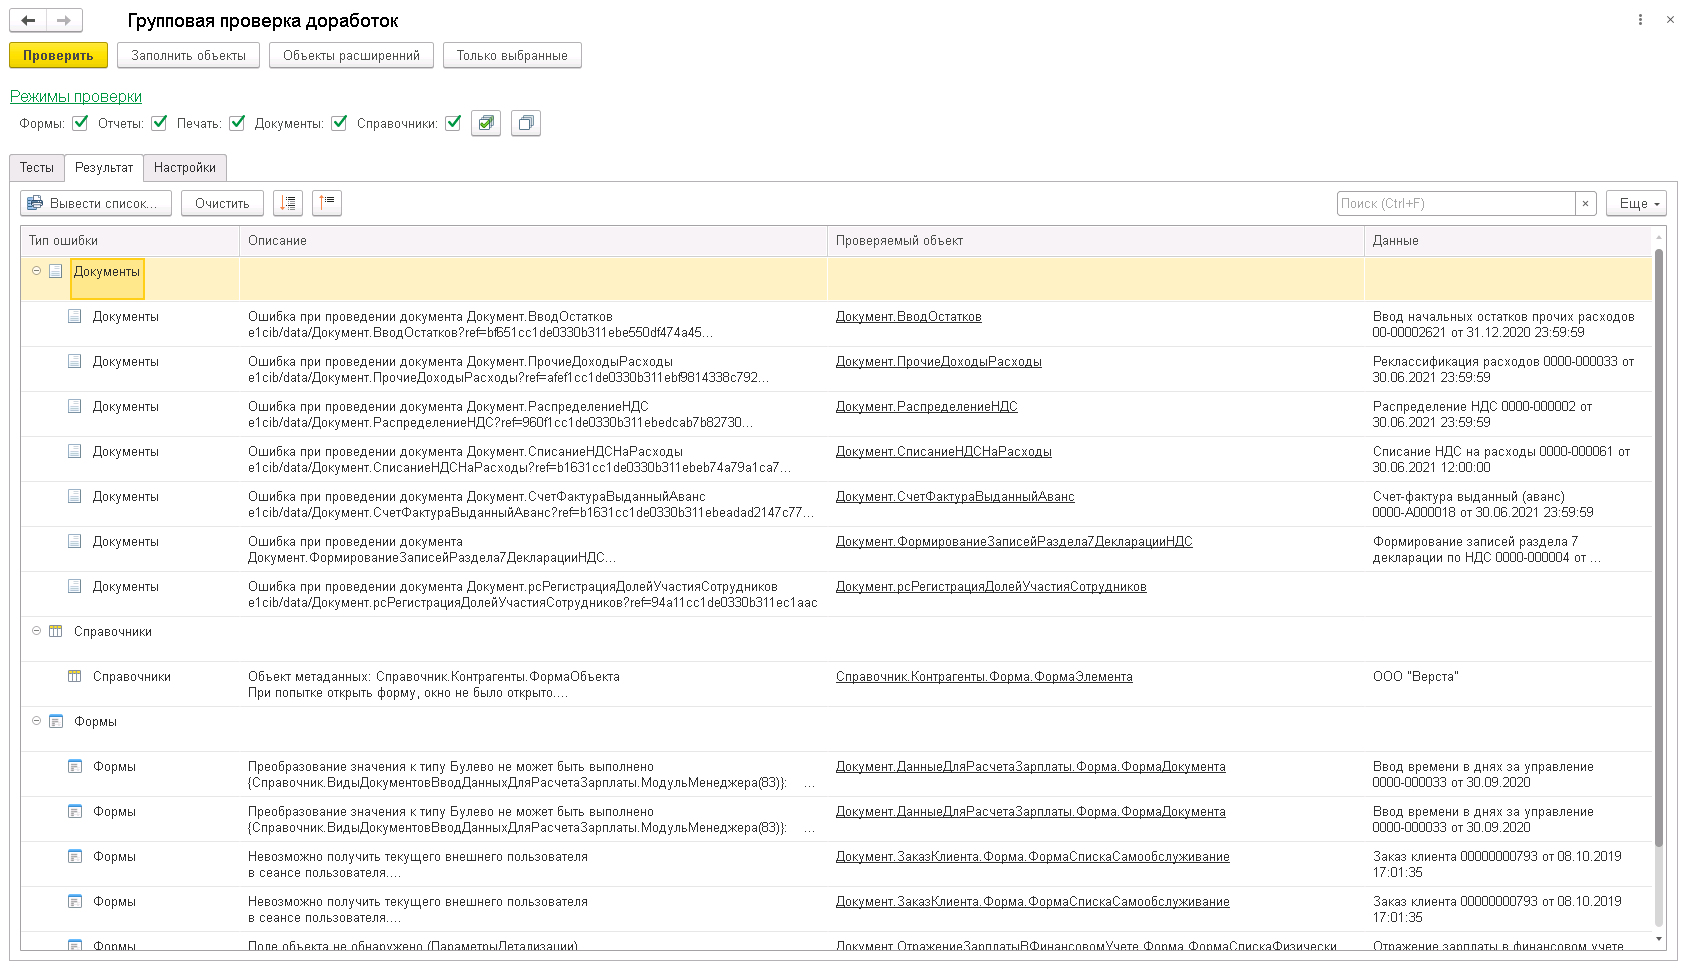
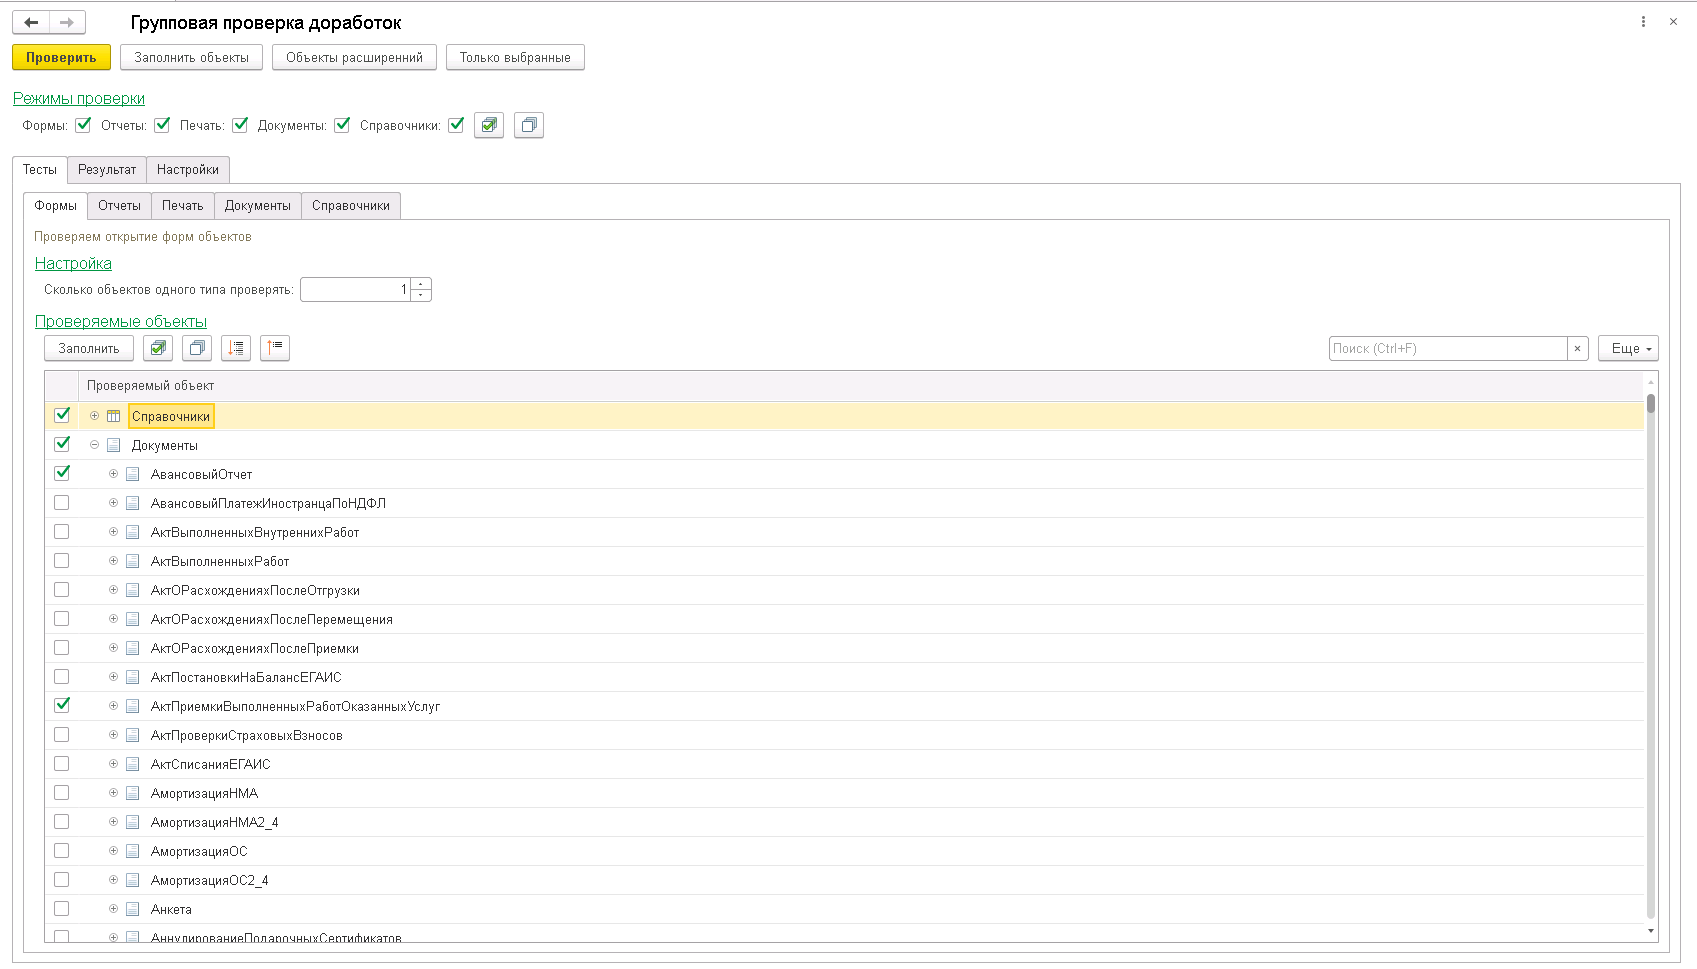
Описание групповой проверки

diff --git a/README.md b/README.md
@@ -163,6 +163,45 @@
 
 ## Групповая проверка доработок
 
+Обработка для массовой проверки доработок конфигурации: Открытие форм, Печать, Формирование отчетов, Проведение документов, Запись справочников, ПВХ, ПВР. Выдает список обнаруженных ошибок. Рекомендуется применять для тестирования обновленной конфигурации.
+
+ *За основу использовалась обработка с инфостарта <a href="https://infostart.ru/public/1056811/" target="_blank">Групповая проверка доработок</a>*.
+
+ <img src="https://raw.githubusercontent.com/leobrn/ones-smoke-allure/main/examples/group-check.png" alt="Превью PhoenixBSL" style="zoom:80%;" />
+
+5 режимов проверки:
+- Формы. Проверка открытия основных форм объектов
+- Отчеты. Формирование отчетов с настройками по умолчанию
+- Печать. Формирование печатных формы с настройками по умолчанию
+- Документы. Проверяет заполнение формы и перепроводит последние документы
+- Справочники. Проверяет заполнение формы и перезаписывает справочники, планы видов характеристик, планы видов расчета
+
+Выбранные проверки выполняются по порядку.
+
+Проверка доработок в расширениях в три шага:
+
+- В шапке обработки нажать `Заполнить объекты` (все настройки и заполненные объекты сохраняются)
+- Нажать `Объекты расширений`. Будут выбраны объекты, которые добавлены или изменены в расширениях. Для показа только выбранных объектов нажмите `Только выбранные`
+- Запустить проверки нажав на `Проверить`
+
+ <img src="https://raw.githubusercontent.com/leobrn/ones-smoke-allure/main/examples/group-check-selected.png" alt="Превью PhoenixBSL" style="zoom:80%;" />
+
+На странице `Результат` в виде дерева отображены ошибки с группировкой по полю `Тип ошибки`.
+
+- Тип ошибки
+- Описание (информация о возникшей ошибке, содержащая указание на модуль и строку ошибки, а также навигационную ссылку на объект)
+- Проверяемый объект (имя объекта метаданных)
+- Данные (ссылка на объект в базе)
+
+ <img src="https://raw.githubusercontent.com/leobrn/ones-smoke-allure/main/examples/group-check-result.png" alt="Превью PhoenixBSL" style="zoom:80%;" />
+
+На странице `Настройки` доступны следующие настройки:
+
+- `Очистить даты запрета`. Перед проведением документов будут очищены даты запрета
+- `Формирование данных для отчета Allure`. Формировать отчет в формате Allure по результатам выполнения тестов. На данный момент выгружаются только ошибки
+
+ <img src="https://raw.githubusercontent.com/leobrn/ones-smoke-allure/main/examples/group-check-settings.png" alt="Превью PhoenixBSL" style="zoom:80%;" />
+
 ## Синтаксическая проверка
 
 Кроме дымовых тестов, включена синтаксическая проверка расширений.
